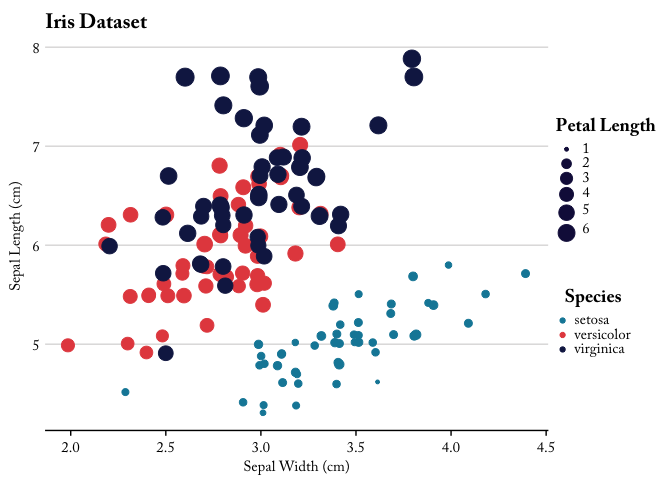
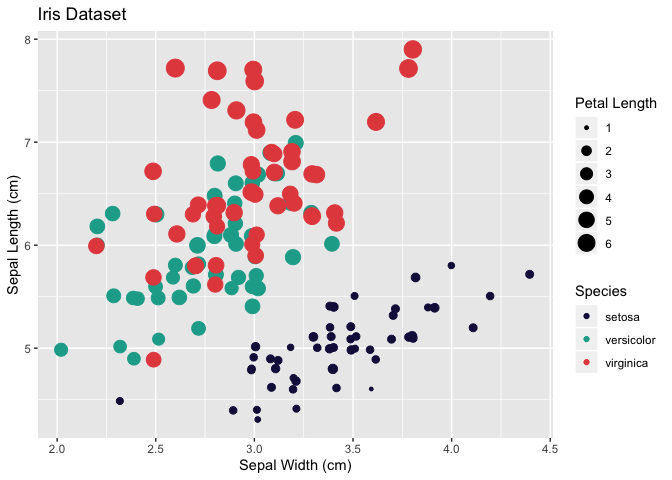
new vignette, new readme

diff --git a/README.md b/README.md
@@ -1,41 +1,63 @@
 
 <!-- README.md is generated from README.Rmd. Please edit that file -->
-TPL Theme
-=========
 
-Installation
-------------
+# TPL Theme
+
+## Installation
 
 ``` r
 if (!require('devtools')) install.packages('devtools')
-config <- utilsR::read_yaml("./config.yaml")
+config <- yaml::read_yaml("https://raw.githubusercontent.com/connorrothschild/tpltheme/master/config.yaml", eval.expr = TRUE)
 library(ggplot2)
 #library(tpltheme)
 devtools::load_all()
 ```
 
-Plotting
---------
+## Plotting
 
 ### Overview
 
-This package creates a standardized formats for plots to be used in reports created by the Texas Policy Lab. It primarily relies on `set_tpl_theme`, which allows the user to specify whether the plot theme should align with a standard plot (`style = "print"`), or one specially created for plotting geographical data (`style = "Texas"`).
+This package creates a standardized formats for plots to be used in
+reports created by the Texas Policy Lab. It primarily relies on
+`set_tpl_theme`, which allows the user to specify whether the plot theme
+should align with a standard plot (`style = "print"`), or one specially
+created for plotting geographical data (`style = "Texas"`).
 
 ### Fonts
 
-The user is able to specify whether they want to use *Lato* or *Adobe Caslon Pro* in their figures.
+The user is able to specify whether they want to use *Lato* or *Adobe
+Caslon Pro* in their figures.
 
-To ensure that these fonts are installed and registered, use `tpltheme::font_test()`. If fonts are not properly installed, install both fonts online and then run `tpltheme::font_install()`.
+To ensure that these fonts are installed and registered, use
+`font_test()`. If fonts are not properly installed, install both fonts
+online and then run `font_install()`.
 
-Once the fonts are installed, the user may specify their desired font within the `set_tpl_theme` function (`font = "adobe"`).
+``` r
+font_test()
+```
+
+    #> [1] "Lato isn't imported and registered. Install the font online and import and register using font_install()."
+
+``` r
+font_install()
+```
+
+    #> Importing fonts may take a few minutes, depending on the number of fonts and the speed of the system.
+    #> Continue? [y/n]
+
+    #> [1] "Lato isn't imported and registered. Install the font online and import and register using font_install()."
 
 ### Usage
 
-Load `library(tpltheme)` **after** `library(ggplot2)` and/or `library(tidyverse)`.
+Load `library(tpltheme)` **after** `library(ggplot2)` and/or
+`library(tidyverse)`.
 
-A plot in TPL style may take the following forms:
+Here are some examples of sample TPL plots with different specifications
+for `style` and `font`.
 
 ``` r
+#library(tidyverse)
+#library(tpltheme)
 set_tpl_theme(style = "print", font = "adobe")
 
 ggplot(iris, aes(x=Species, y=Sepal.Width, fill=Species)) +
@@ -43,37 +65,25 @@ ggplot(iris, aes(x=Species, y=Sepal.Width, fill=Species)) +
     labs(x="Species", y="Mean Sepal Width (cm)", fill="Species", title="Iris Dataset")
 ```
 
-![](man/figures/README-unnamed-chunk-3-1.png)
+![](man/figures/README-unnamed-chunk-4-1.png)<!-- -->
 
 ``` r
-ggplot(iris, aes(x=Species, y=Sepal.Width, fill=Species)) +
-    geom_boxplot(show.legend = FALSE) +
-    labs(x="Species", y="Sepal Width (cm)", fill="Species", title="Iris Dataset")
-```
+set_tpl_theme(style = "print", font = "lato")
 
-![](man/figures/README-unnamed-chunk-4-1.png)
-
-``` r
-ggplot(iris, aes(x=Sepal.Width)) +
-      geom_histogram(bins = 20) +
-      labs(x="Sepal Width (cm)", y="Count", title="Iris Dataset")
-```
-
-![](man/figures/README-unnamed-chunk-5-1.png)
-
-``` r
 ggplot(iris, aes(x=jitter(Sepal.Width), y=jitter(Sepal.Length), col=Species, size = Petal.Length)) +
     geom_point() +
     labs(x="Sepal Width (cm)", y="Sepal Length (cm)", col="Species", size = "Petal Length", title="Iris Dataset")
 ```
 
-![](man/figures/README-unnamed-chunk-6-1.png)
+![](man/figures/README-unnamed-chunk-5-1.png)<!-- -->
 
-By specifying `style = "Texas"` within `set_tpl_theme`, the user may also create Texas-specific plots.
+By specifying `style = "Texas"` within `set_tpl_theme`, the user may
+also create Texas-specific plots.
 
 ``` r
-tx_vac <- readr::read_csv("https://raw.githubusercontent.com/connorrothschild/tpltheme/master/tx_vac_example.csv")
-set_tpl_theme(style = "Texas")
+tx_vac <- readr::read_csv("https://raw.githubusercontent.com/connorrothschild/tpltheme/master/data/tx_vac_example.csv")
+set_tpl_theme(style = "Texas", font = "adobe")
+
 ggplot2::ggplot(data = tx_vac, mapping = ggplot2::aes(x = long, y = lat, group = group, fill = avgvac*100)) +
   ggplot2::coord_fixed(1.3) +
   scale_fill_continuous(limits = c(78.3,100)) +
@@ -84,11 +94,13 @@ ggplot2::ggplot(data = tx_vac, mapping = ggplot2::aes(x = long, y = lat, group =
        caption = "Source: Texas DSHS")
 ```
 
-![](man/figures/README-unnamed-chunk-7-1.png)
+![](man/figures/README-unnamed-chunk-6-1.png)<!-- -->
 
 And it also works for categorical variables:
 
 ``` r
+set_tpl_theme(style = "Texas", font = "lato")
+
 tx_vac %>% 
   dplyr::mutate(cat = factor(dplyr::case_when(avgvac*100 > 99 ~ "Great",
                          avgvac*100 > 90 ~ "Average",
@@ -102,9 +114,14 @@ tx_vac %>%
        caption = "Source: Texas DSHS")
 ```
 
-![](man/figures/README-unnamed-chunk-8-1.png)
+![](man/figures/README-unnamed-chunk-7-1.png)<!-- -->
 
-If the number of colors exceeds the number of colors in the TPL palette (9), the function `tpl_color_pal()` will drop the TPL color palette and return the greatest number of unique colors possible within the RColorBrewer's "Paired" palette (for more information on the use of RColorBrewer palettes, see [this chapter](https://bookdown.org/rdpeng/exdata/plotting-and-color-in-r.html#using-the-rcolorbrewer-palettes)).
+If the number of colors exceeds the number of colors in the TPL palette
+(9), the function `tpl_color_pal()` will drop the TPL color palette and
+return the greatest number of unique colors possible within the
+RColorBrewer’s “Paired” palette (for more information on the use of
+RColorBrewer palettes, see [this
+chapter](https://bookdown.org/rdpeng/exdata/plotting-and-color-in-r.html#using-the-rcolorbrewer-palettes)).
 
 ``` r
 tx_vac %>% 
@@ -114,7 +131,7 @@ tx_vac %>%
   labs(title = "Texas Counties")
 ```
 
-![](man/figures/README-unnamed-chunk-9-1.png)
+![](man/figures/README-unnamed-chunk-8-1.png)<!-- -->
 
 ``` r
 # default to print afterwards
@@ -125,7 +142,9 @@ set_tpl_theme(style = "print")
 
 #### Logo
 
-The user also has the option to include the TPL logo in single plots. This may be preferred for those reports being made especially public, or to serve as a pseudo-watermark in proprietary plots.
+The user also has the option to include the TPL logo in single plots.
+This may be preferred for those reports being made especially public, or
+to serve as a pseudo-watermark in proprietary plots.
 
 ``` r
 library(grid)
@@ -133,31 +152,29 @@ library(gridExtra)
 plot <- ggplot(iris, aes(x=jitter(Sepal.Width), y=jitter(Sepal.Length), col=Species, size = Petal.Length)) +
     geom_point() +
     labs(x="Sepal Width (cm)", y="Sepal Length (cm)", col="Species", size = "Petal Length", title="Iris Dataset")
-    
+ 
 add_tpl_logo(plot)
 ```
 
-![](man/figures/README-unnamed-chunk-10-1.png)
+![](man/figures/README-unnamed-chunk-9-1.png)<!-- -->
 
-The user can specify the `position` of the logo as well as it's `size`:
-
-``` r
-add_tpl_logo(tpl_plot_test(type = "barplot"), size = "regular", position = "bottomright")
-```
-
-![](man/figures/README-unnamed-chunk-11-1.png)
-
-Finally (and here's the exciting part), the user is able to move the logo horizontally by specifying `align`. Positive values will shift the logo rightward while negative values shift it leftward:
+The user can specify the `position` of the logo as well as it’s `size`.
+The user is able to move the logo horizontally by specifying `align`.
+Positive values will shift the logo rightward while negative values
+shift it leftward:
 
 ``` r
-add_tpl_logo(tpl_plot_test(type = "barplot"), size = "regular", position = "bottomright", align = -2)
+add_tpl_logo(tpl_plot_test(type = "barplot"), size = "small", position = "bottomright", align = -3)
 ```
 
-![](man/figures/README-unnamed-chunk-12-1.png)
+![](man/figures/README-unnamed-chunk-10-1.png)<!-- -->
 
 #### Logo Text
 
-There may be some instances when an all-out logo is not warranted or preferred. If that is the case and the user would still like to watermark their figures, they can use the function `add_tpl_logo_text()` to add text to an existing plot object:
+There may be some instances when an all-out logo is not warranted or
+preferred. If that is the case and the user would still like to
+watermark their figures, they can use the function `add_tpl_logo_text()`
+to add text to an existing plot object:
 
 ``` r
 plot <- ggplot(iris, aes(x=jitter(Sepal.Width), y=jitter(Sepal.Length), col=Species, size = Petal.Length)) +
@@ -167,9 +184,10 @@ plot <- ggplot(iris, aes(x=jitter(Sepal.Width), y=jitter(Sepal.Length), col=Spec
 add_tpl_logo_text(plot)
 ```
 
-![](man/figures/README-unnamed-chunk-13-1.png)
+![](man/figures/README-unnamed-chunk-11-1.png)<!-- -->
 
-The user may also need to specify `align`, which moves the plot horizontally across the bottom of the page.
+The user may also need to specify `align`, which moves the plot
+horizontally across the bottom of the page.
 
 ``` r
 plot <- ggplot(iris, aes(x=Species, y=Sepal.Width, fill=Species)) +
@@ -179,13 +197,19 @@ plot <- ggplot(iris, aes(x=Species, y=Sepal.Width, fill=Species)) +
 add_tpl_logo_text(plot, align = 1.5)    
 ```
 
-![](man/figures/README-unnamed-chunk-14-1.png)
+![](man/figures/README-unnamed-chunk-12-1.png)<!-- -->
 
-### Drop Axes
+### Additional Functions
 
-In the event that the user wishes to drop an axis, they may do so with `drop_axis()`. The function may drop any combination of axes depending on the user's input (`drop = "x"`, `drop = "y"`, `drop = "both"`, `drop = "neither"`).
+#### Drop Axes
 
-Unlike `add_tpl_logo()`, `drop_axis()` should be *added* to an existing plot object:
+In the event that the user wishes to drop an axis, they may do so with
+`drop_axis()`. The function may drop any combination of axes depending
+on the user’s input (`drop = "x"`, `drop = "y"`, `drop = "both"`, `drop
+= "neither"`).
+
+Unlike `add_tpl_logo()`, `drop_axis()` should be *added* to an existing
+plot object:
 
 ``` r
 ggplot(iris, aes(x=jitter(Sepal.Width), y=jitter(Sepal.Length), col=Species, size = Petal.Length)) +
@@ -194,16 +218,77 @@ ggplot(iris, aes(x=jitter(Sepal.Width), y=jitter(Sepal.Length), col=Species, siz
     drop_axis(axis = "y")
 ```
 
-![](man/figures/README-unnamed-chunk-15-1.png)
+![](man/figures/README-unnamed-chunk-13-1.png)<!-- -->
 
-#### Additional Functions
+#### Color Palettes
 
--   `undo_tpl_theme`: Removes all TPL-specific theme settings and restores to ggplot defaults.
--   `tpl_plot_test`: Four base plots which allow the user to quickly see what a TPL-themed figure may look like. The user may specify the plot type (scatterplot, boxplot, barplot, histogram), the plot font (adobe, lato), and whether to include the TPL logo (include.logo = T).
--   `view_palette`: Plots base color palettes included in `tplthemes`. All TPL color palettes are led by the notation `palette_tpl_*` and therefore can be easily autocompleted within RStudio.
+The function `view_palette` plots base color palettes included in
+`tplthemes`. All TPL color palettes are led by the notation
+`palette_tpl_*` and therefore can be easily autocompleted within
+RStudio.
 
-Reporting
----------
+``` r
+p1 <- view_palette(palette = palette_tpl_main)
+p2 <- view_palette(palette = palette_tpl_diverging)
+p3 <- view_palette(palette = palette_tpl_sequential)
 
--   `read_word`: Reads word into Rmarkdown, such that word documents can be edited and read into the main Rmarkdown file for creating reports.
--   `read_word_table`: Reads a table from word into Rmarkdown, such that tables in word can be edited and then imported into Rmarkdown.
+grid.arrange(p1, p2, p3, nrow = 1)
+```
+
+![](man/figures/README-unnamed-chunk-14-1.png)<!-- -->
+
+These palettes were created using <http://colorbrewer2.org> and
+<http://coloors.co> and are colorblind friendly.
+
+The user may specify the color palette in the `scale_fill_*` or
+`scale_color_*` functions in a ggplot call. Specifically, the user can
+specify the `palette` (categorical, diverging, sequential) and whether
+the palette should be reversed.
+
+``` r
+set_tpl_theme(style = "print", font = "lato")
+normal <- ggplot(diamonds) +
+  geom_bar(aes(x = cut, fill = clarity)) +
+  labs(title = "TPL Color Palette",
+       subtitle = "On sample data",
+       x = "Cut",
+       y = "Count",
+       fill = "Clarity") +
+  theme(axis.text.x = element_text(angle = 45, hjust = 1))
+
+reversed <- ggplot(diamonds) +
+  geom_bar(aes(x = cut, fill = clarity)) +
+  labs(title = "TPL Color Palette",
+       subtitle = "(reversed)",
+       x = "Cut",
+       y = "Count",
+       fill = "Clarity") +
+  theme(axis.text.x = element_text(angle = 45, hjust = 1)) +
+  scale_fill_discrete(reverse = TRUE)
+
+grid.arrange(normal, reversed, nrow = 1)
+```
+
+![](man/figures/README-unnamed-chunk-15-1.png)<!-- -->
+
+#### Restore Defaults
+
+By calling `undo_tpl_theme`, you are able to remove TPL-specific theme
+settings and restores to ggplot defaults.
+
+``` r
+undo_tpl_theme()
+ggplot(iris, aes(x=jitter(Sepal.Width), y=jitter(Sepal.Length), col=Species, size = Petal.Length)) +
+    geom_point() +
+    labs(x="Sepal Width (cm)", y="Sepal Length (cm)", col="Species", size = "Petal Length", title="Iris Dataset")
+```
+
+![](man/figures/README-unnamed-chunk-16-1.png)<!-- -->
+
+## Reporting
+
+  - `read_word`: Reads word into Rmarkdown, such that word documents can
+    be edited and read into the main Rmarkdown file for creating
+    reports.
+  - `read_word_table`: Reads a table from word into Rmarkdown, such that
+    tables in word can be edited and then imported into Rmarkdown.
